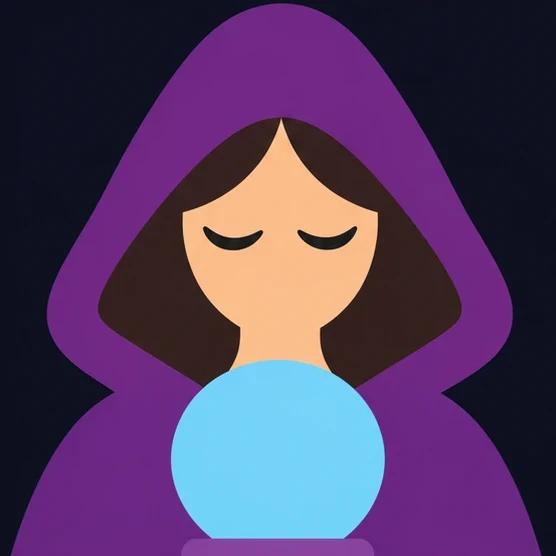
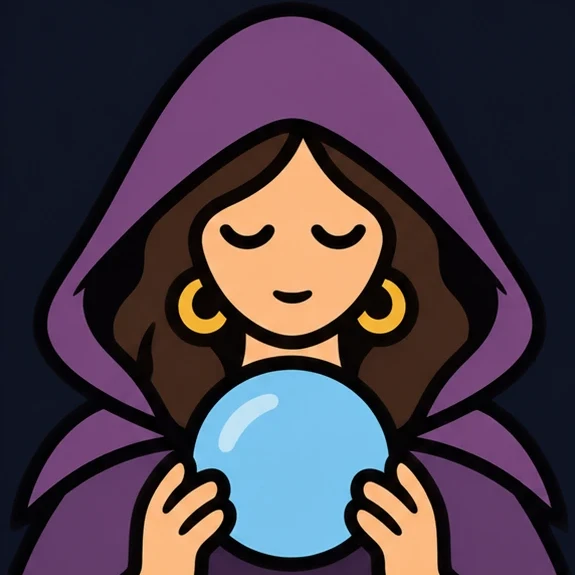
Rollenbilder Sheet 1 mit Konturen ersetzt

diff --git a/sw.js b/sw.js
@@ -2,7 +2,7 @@
 // Der Block zwischen den Marken wird von tools/precache.mjs erzeugt (node tools/precache.mjs).
 
 // >>> precache
-const VERSION = 'b56a9aeff5';
+const VERSION = 'be6d99ffb8';
 const ASSETS = [
   './',
   './assets/audio/glocke.mp3',
